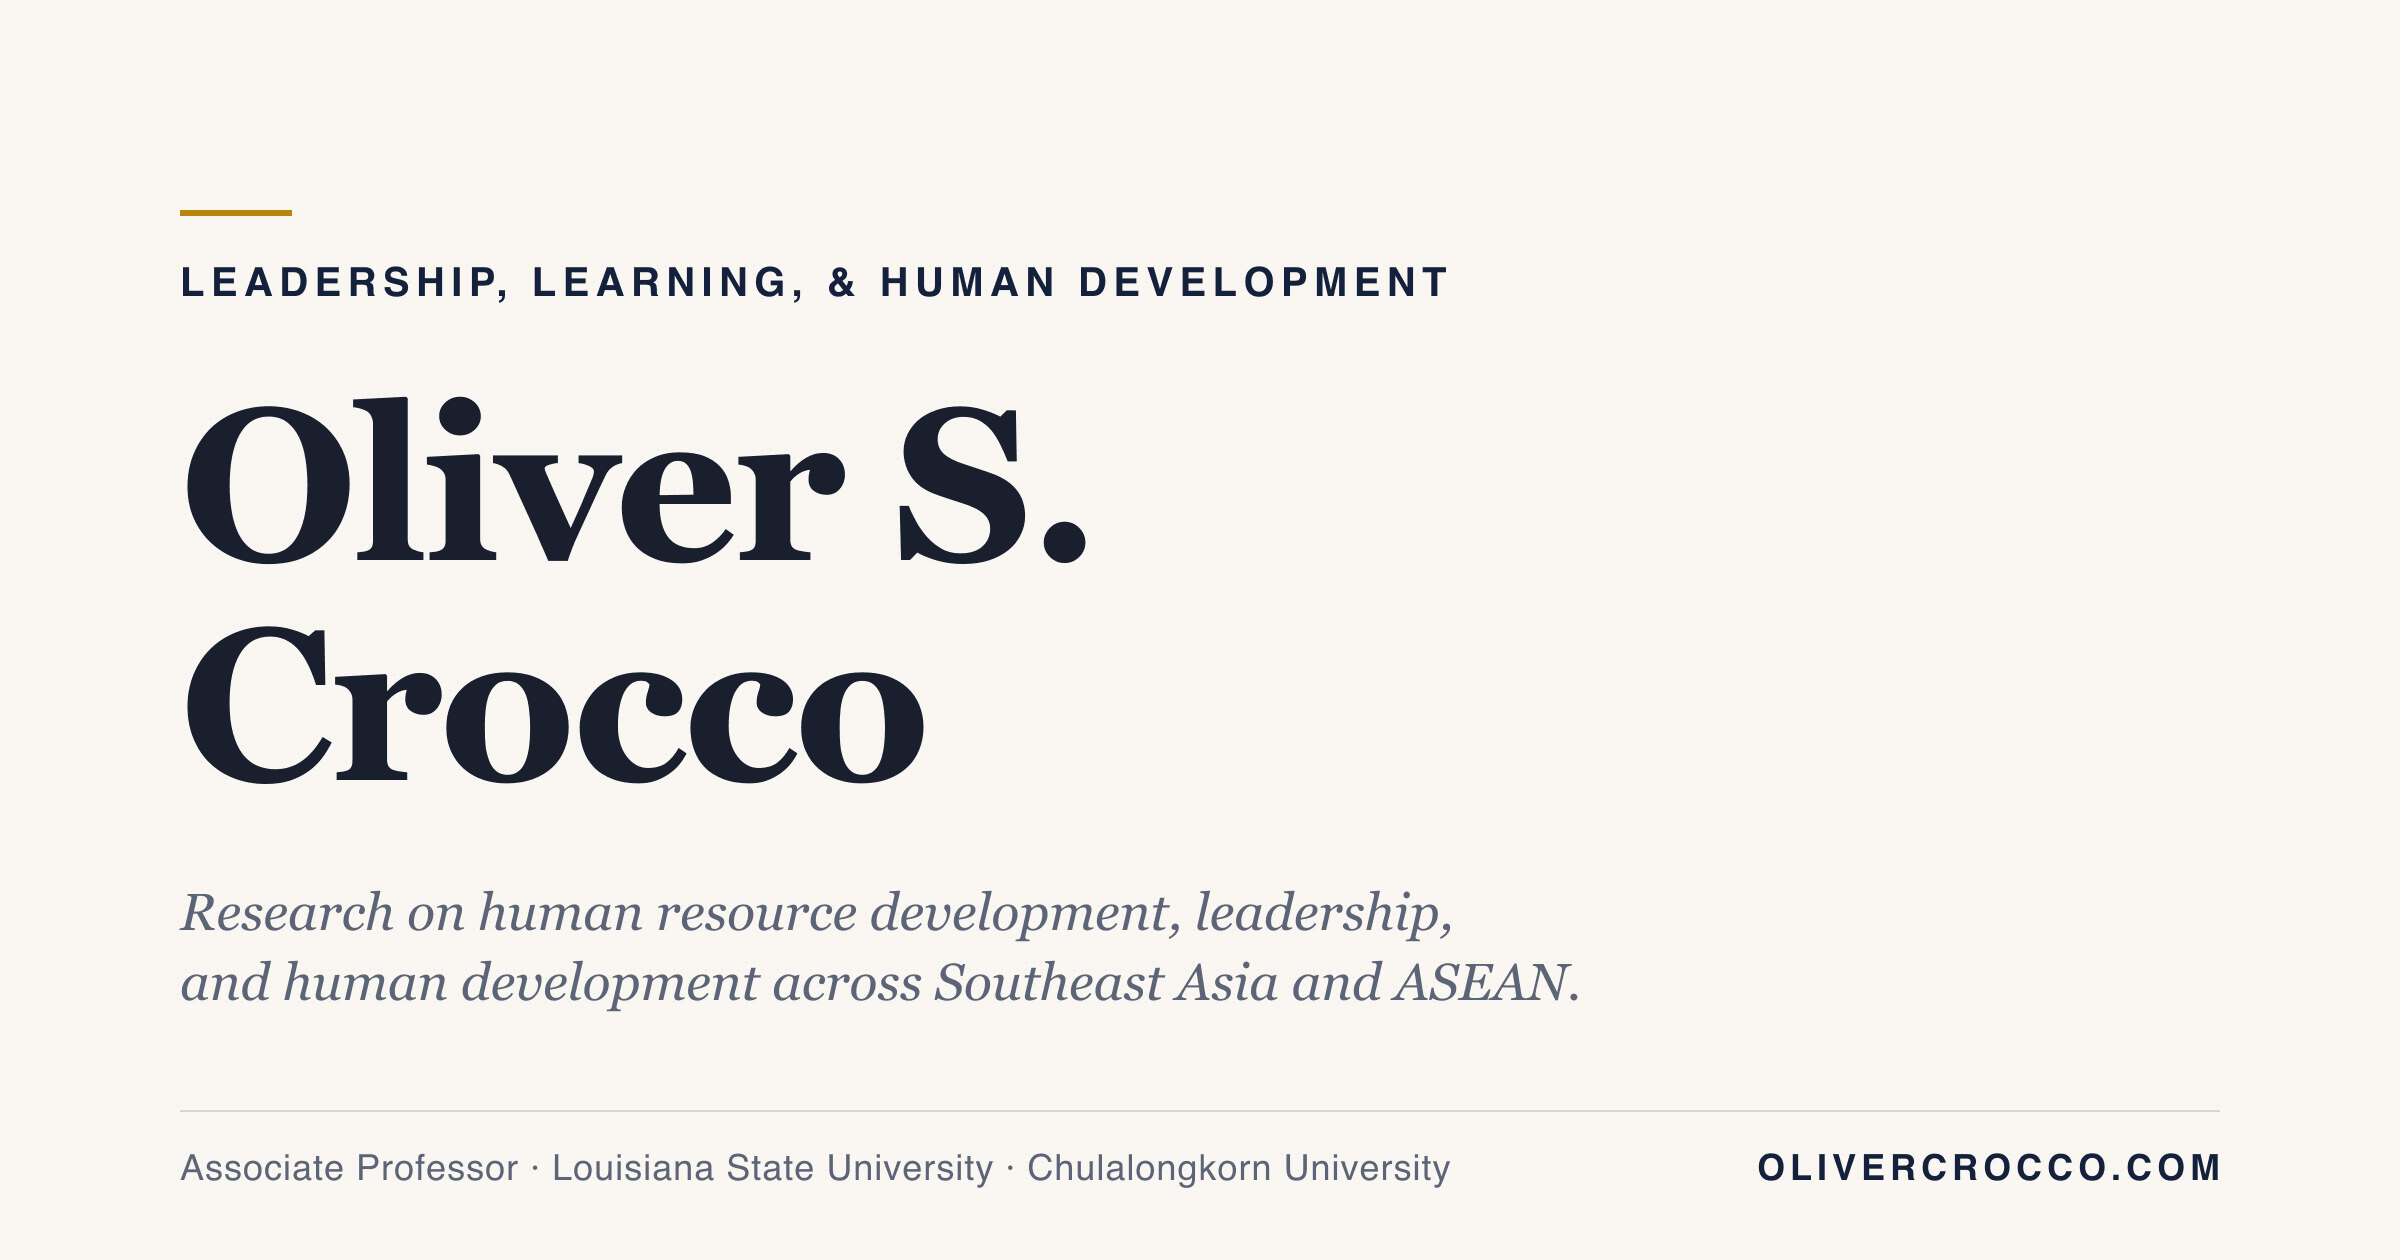
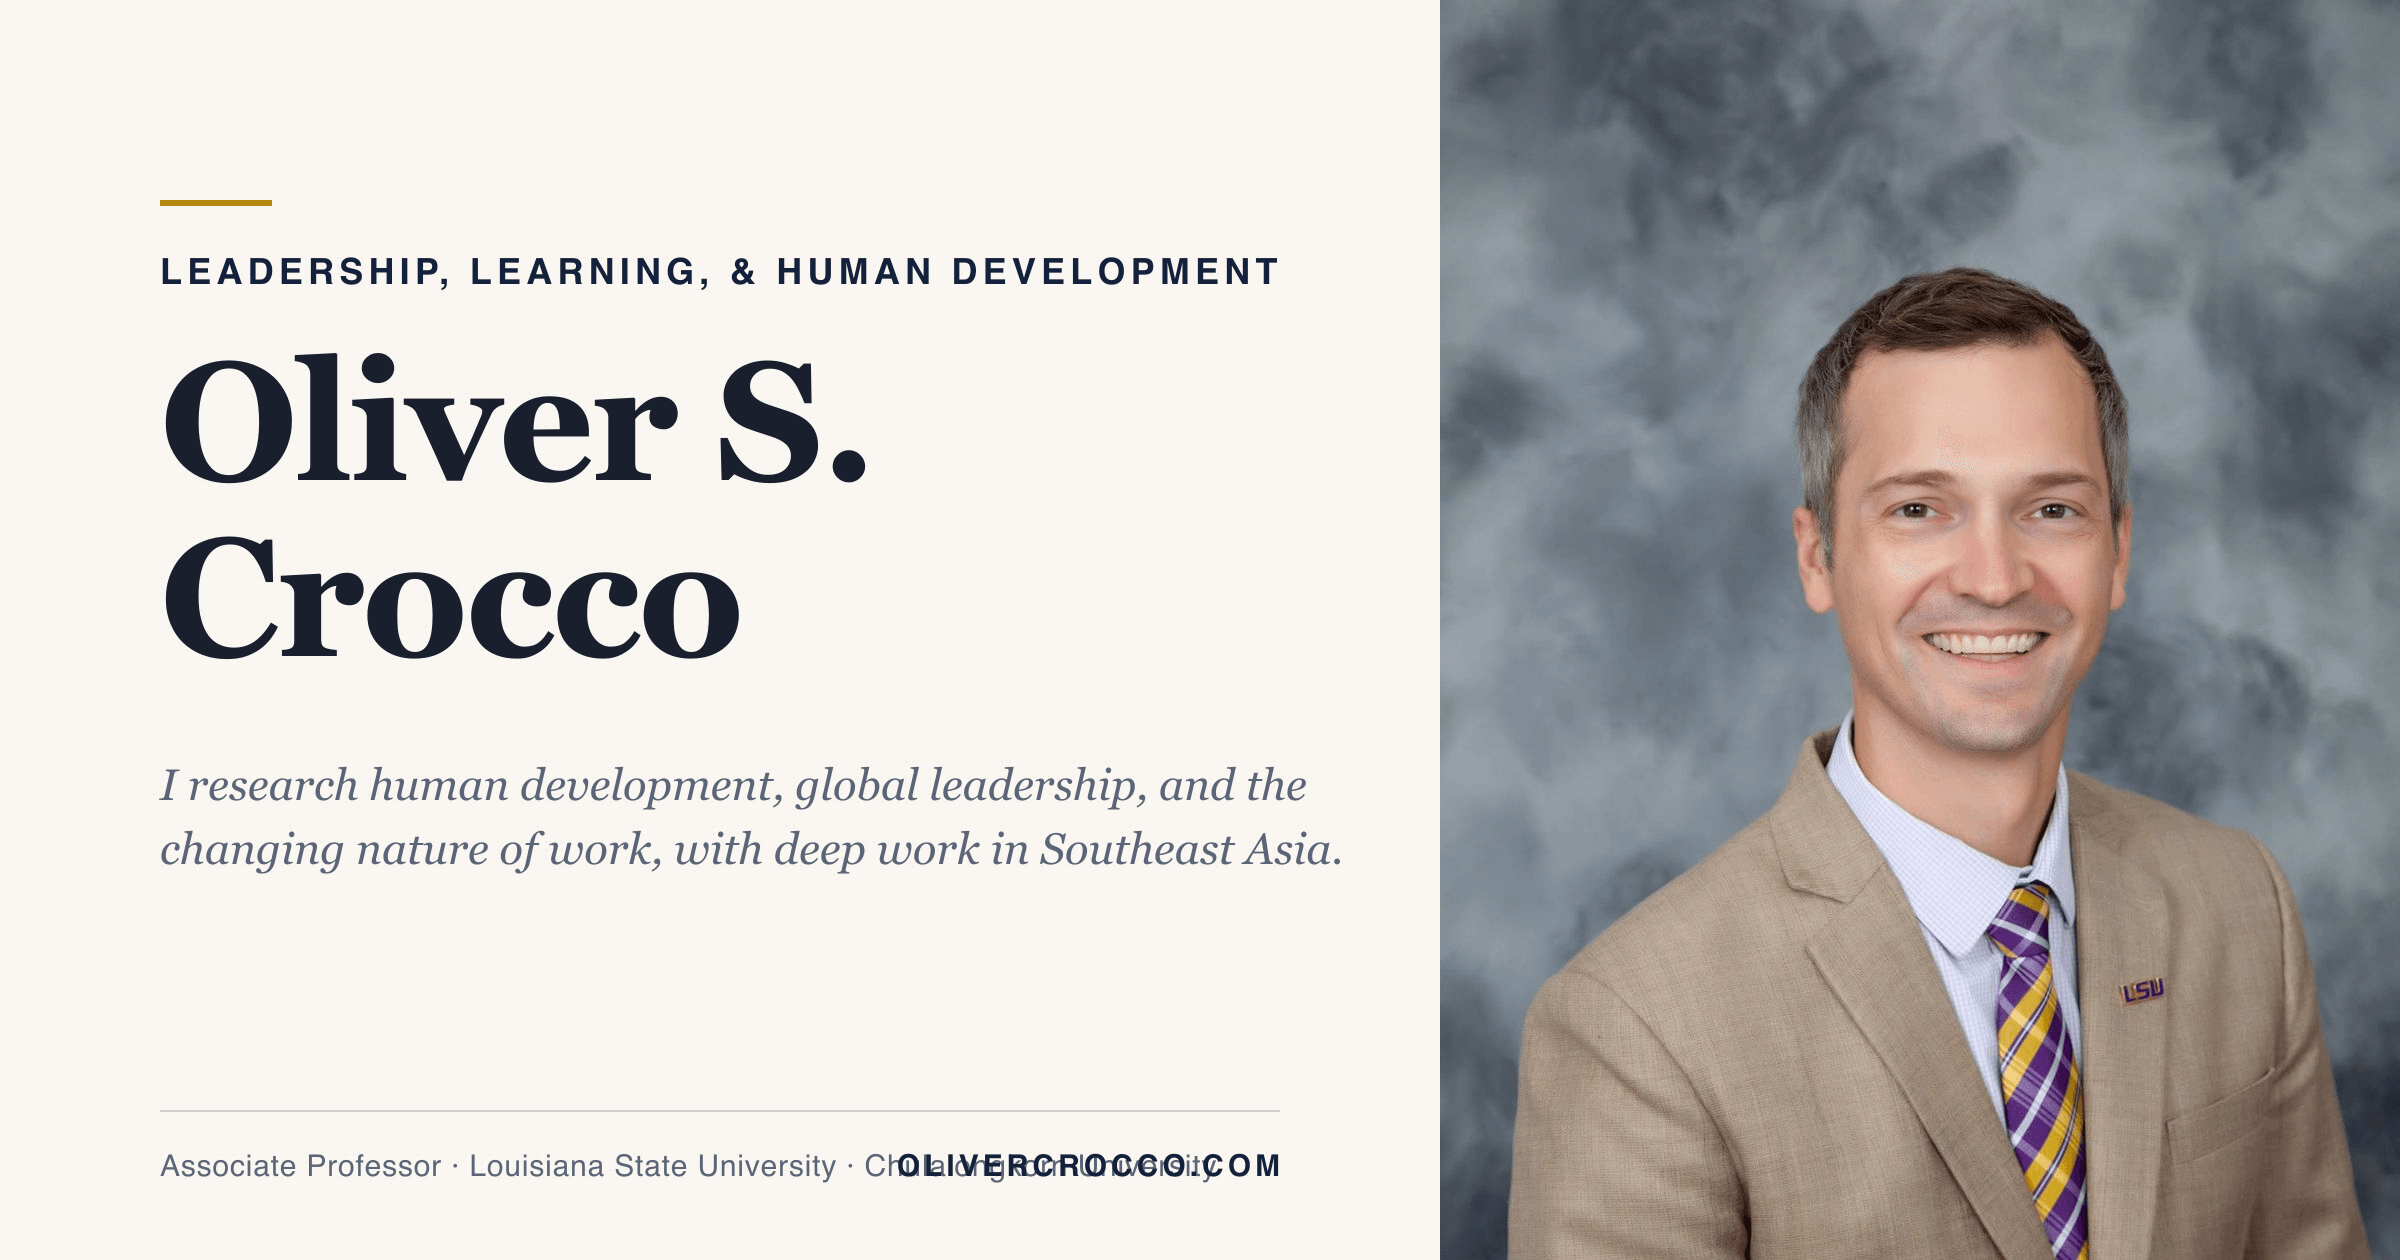
Rework tagline + redesign OG card with headshot on right
Tagline: 'I research human development, global leadership, and the
changing nature of work, with deep work in Southeast Asia.'
Drops the prior SE Asia + ASEAN redundancy. Maps directly to the three
research streams already on the site.

OG card: text content moved to the left 60% of the canvas; headshot
composited into the right 40% with top-aligned crop. Bigger CTR signal
for shared links — face cards consistently outperform pure-typographic
ones on LinkedIn, Twitter, and email previews. Same dimensions
(2400x1260), still ~500KB.

diff --git a/src/site.config.ts b/src/site.config.ts
@@ -10,7 +10,7 @@ export const SITE = {
   description:
     "Associate Professor of Leadership and Human Resource Development at Louisiana State University. Research at the intersection of leadership, learning, and human development — across Southeast Asia, organizations, and the lives of learners.",
   positioning:
-    "My research is on human resource development, leadership, and human development across Southeast Asia, ASEAN, and beyond.",
+    "I research human development, global leadership, and the changing nature of work, with deep work in Southeast Asia.",
 } as const;
 
 export const AUTHOR = {
